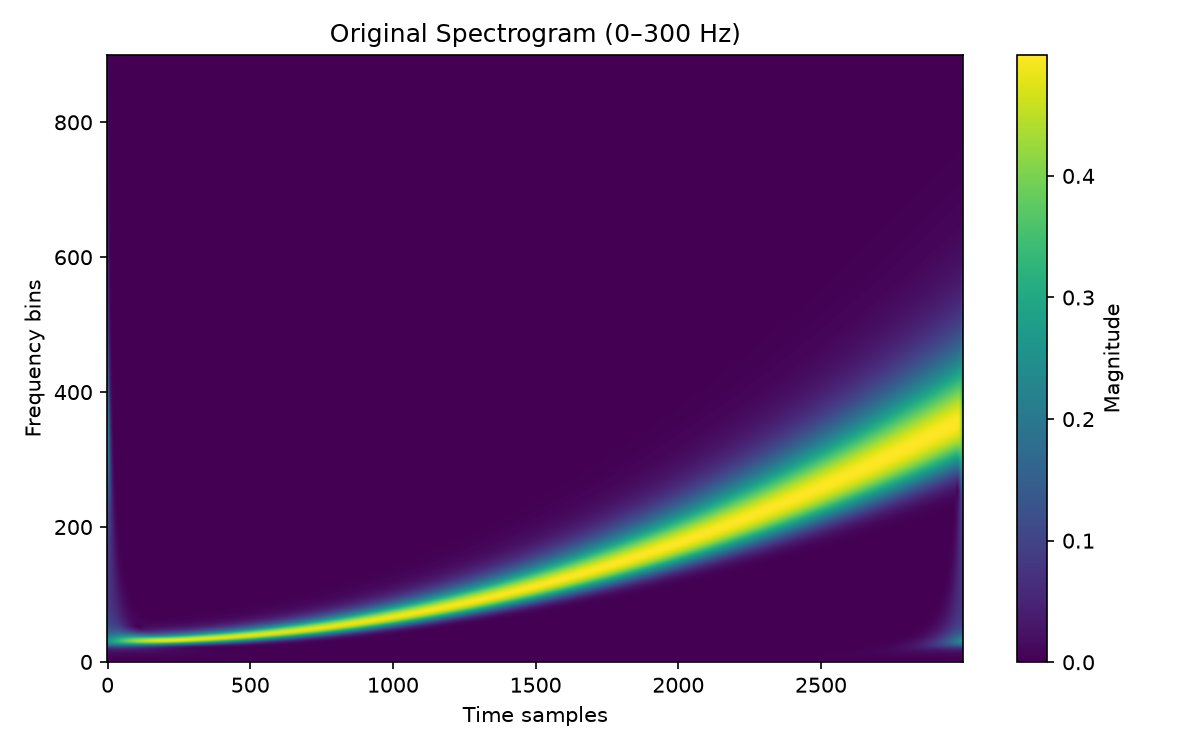
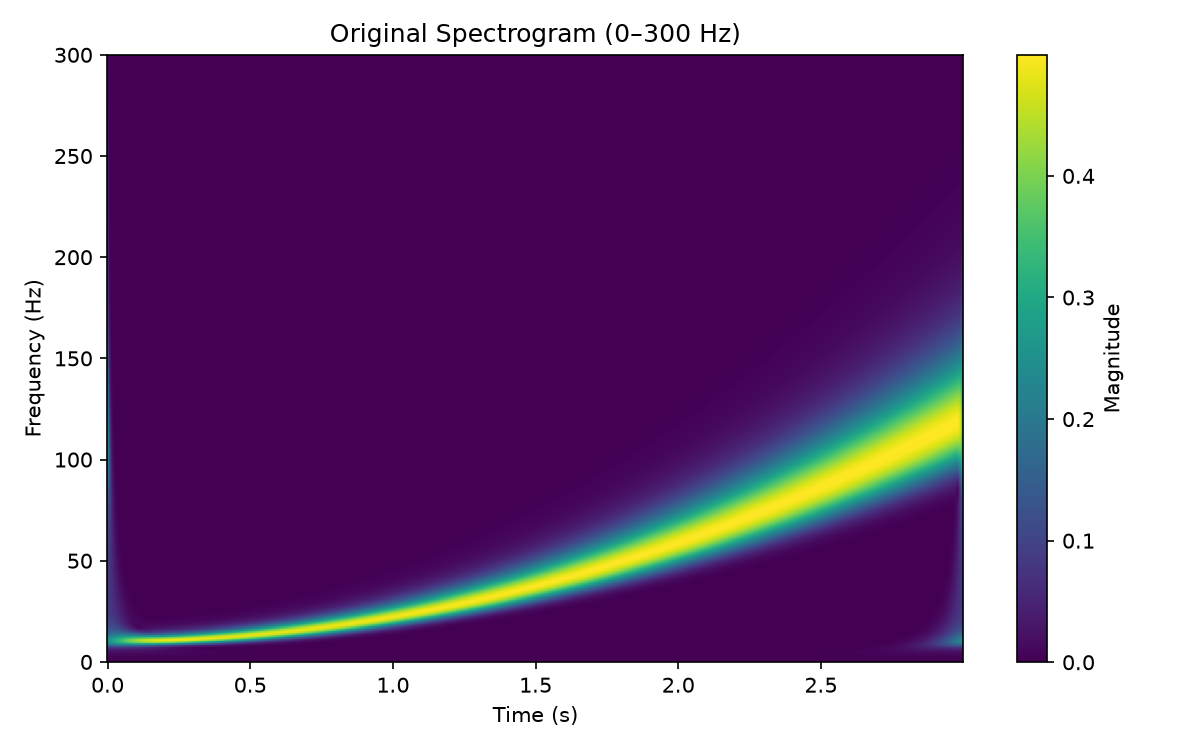
docs: use physical axes for example figures

diff --git a/test.py b/test.py
@@ -43,14 +43,15 @@ def test_s_transform():
     )
     display_mask = st.frequencies <= 300.0
     fig, axis = plt.subplots(figsize=(8, 5))
-    image = axis.imshow(
+    image = axis.pcolormesh(
+        st.times,
+        st.frequencies[display_mask],
         np.abs(np.asarray(st)[display_mask]),
-        origin='lower',
-        aspect='auto',
+        shading='auto',
     )
     axis.set_title('Original Spectrogram (0–300 Hz)')
-    axis.set_xlabel('Time samples')
-    axis.set_ylabel('Frequency bins')
+    axis.set_xlabel('Time (s)')
+    axis.set_ylabel('Frequency (Hz)')
     fig.colorbar(image, ax=axis, label='Magnitude')
     fig.tight_layout()
     fig.savefig(IMAGE_DIR / 'original_spectrogram.png', dpi=150)
@@ -66,19 +67,20 @@ def test_s_transform():
 
     # Plot original vs. recovered
     fig, axes = plt.subplots(2, 1, figsize=(8, 6))
-    axes[0].plot(x)
+    axes[0].plot(t, x)
     axes[0].set_title('Original Signal')
-    axes[1].plot(x_rec_comp)
+    axes[1].plot(t, x_rec_comp)
     axes[1].set_title('Recovered Signal')
+    axes[1].set_xlabel('Time (s)')
     plt.tight_layout()
     plt.show()
 
     # Reconstruction error
     fig, axis = plt.subplots(figsize=(8, 4))
-    axis.plot(x_rec_comp, label='Recovered Signal')
-    axis.plot(x - x_rec_comp, label='Error')
+    axis.plot(t, x_rec_comp, label='Recovered Signal')
+    axis.plot(t, x - x_rec_comp, label='Error')
     axis.set_title('Time Series Reconstruction Error')
-    axis.set_xlabel('Time samples')
+    axis.set_xlabel('Time (s)')
     axis.legend()
     fig.tight_layout()
     fig.savefig(IMAGE_DIR / 'recovered_ts_error.png', dpi=150)
@@ -93,10 +95,15 @@ def test_s_transform():
         freq_step=fs / x_rec.size
     )
     fig, axis = plt.subplots(figsize=(8, 5))
-    image = axis.imshow(np.abs(st_rec), origin='lower', aspect='auto')
+    image = axis.pcolormesh(
+        st_rec.times,
+        st_rec.frequencies,
+        np.abs(np.asarray(st_rec)),
+        shading='auto',
+    )
     axis.set_title('Recovered Spectrogram')
-    axis.set_xlabel('Time samples')
-    axis.set_ylabel('Frequency bins')
+    axis.set_xlabel('Time (s)')
+    axis.set_ylabel('Frequency (Hz)')
     fig.colorbar(image, ax=axis, label='Magnitude')
     fig.tight_layout()
     fig.savefig(IMAGE_DIR / 'recovered_spectrogram.png', dpi=150)

diff --git a/README.md b/README.md
@@ -29,16 +29,16 @@ x = chirp(time, f0=10.0, t1=duration, f1=120.0, method="quadratic")
 
 st = s_transform(x, sample_rate=sample_rate)
 
-plt.imshow(
-    20 * np.log10(np.maximum(np.abs(st), 1e-12)),
-    origin="lower",
-    aspect="auto",
-    extent=(st.times[0], st.times[-1], st.frequencies[0], st.frequencies[-1]),
+plt.pcolormesh(
+    st.times,
+    st.frequencies,
+    np.abs(st),
+    shading="auto",
 )
 plt.xlabel("Time (s)")
 plt.ylabel("Frequency (Hz)")
-plt.title("S-transform magnitude (dB)")
-plt.colorbar(label="Magnitude (dB)")
+plt.title("S-transform magnitude")
+plt.colorbar(label="Magnitude")
 plt.show()
 ```
 
